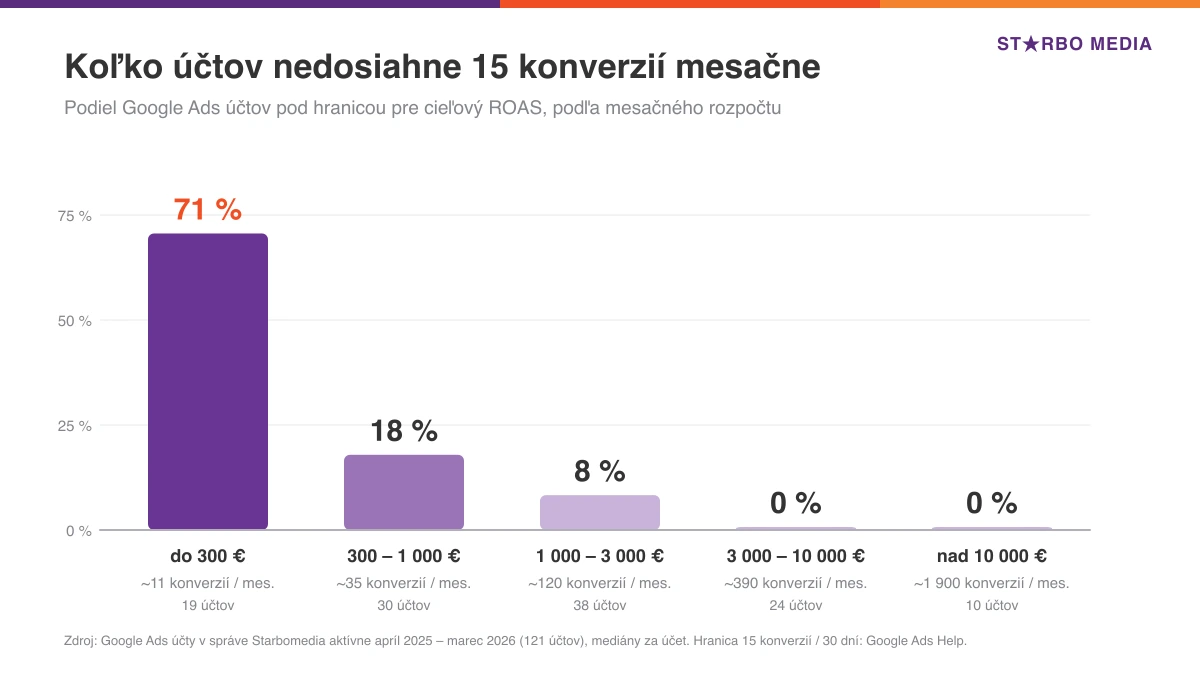
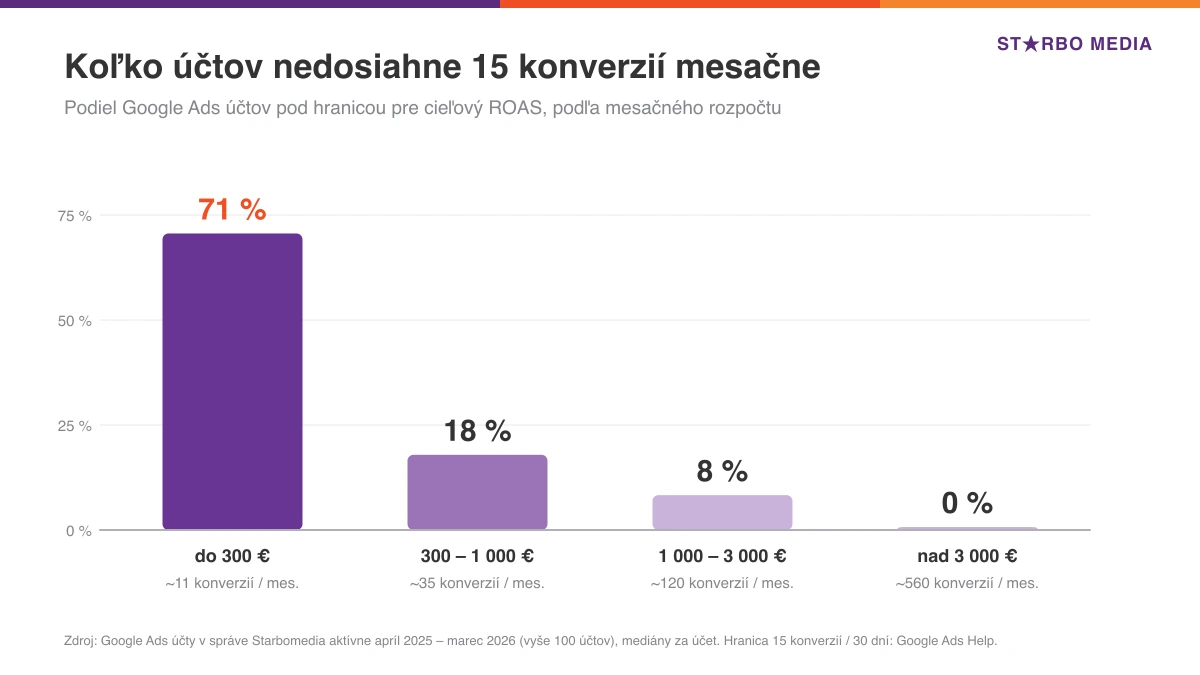
Blog: malý e-shop – bez Shoptet Kampaní, anonymizované počty účtov
- odstránený odsek o Shoptet Kampaniach
- namiesto 121 účtov „vyše 100“, bez počtov účtov v pásmach, pásma nad 3 000 € spojené bez mediánu rozpočtu (tabuľka, graf, hero, excerpt)

diff --git a/src/content/blog/html/reklama-pre-maly-eshop.html b/src/content/blog/html/reklama-pre-maly-eshop.html
@@ -3,7 +3,7 @@
   <nav aria-label="Obsah článku">
 <h2>Obsah článku</h2>
 <ol>
-<li><a href="#kolko-stoji-reklama-pre-e-shop-co-ukazuju-data-zo-121-uctov">Koľko stojí reklama pre e-shop: čo ukazujú dáta zo 121 účtov</a></li>
+<li><a href="#kolko-stoji-reklama-pre-e-shop-co-ukazuju-data-z-vyse-100-uc">Koľko stojí reklama pre e-shop: čo ukazujú dáta z vyše 100 účtov</a></li>
 <li><a href="#ako-propagovat-e-shop-s-malym-rozpoctom-poradie-kanalov">Ako propagovať e-shop s malým rozpočtom: poradie kanálov</a></li>
 <li><a href="#ako-nastavit-kampane-ked-mate-malo-konverzii">Ako nastaviť kampane, keď máte málo konverzií</a></li>
 <li><a href="#marketing-pre-e-shop-v-prvych-90-dnoch-postup-krok-za-krokom">Marketing pre e-shop v prvých 90 dňoch: postup krok za krokom</a></li>
@@ -15,25 +15,24 @@
 
   <div itemprop="articleBody">
 <p>„Koľko mám dať do reklamy?" je prvá otázka takmer každého majiteľa malého e-shopu, s ktorým sa rozprávame. Odpovede, ktoré nájdete na internete, sa pohybujú od „stačí 5 € denne" po „pod 2 700 € mesačne to nemá zmysel". Obe krajnosti majú spoločné to, že nestoja na dátach.</p>
-<p>My v Starbomedia sme sa preto pozreli na čísla. Zobrali sme 121 Google Ads účtov, ktoré spravujeme a ktoré bežali celý rok (apríl 2025 – marec 2026). Rozdelili sme ich podľa mesačného rozpočtu a porovnali, čo za svoje peniaze reálne dostávajú. Z toho vychádza aj odpoveď na druhú otázku: kde začať, keď peňazí nie je veľa.</p>
+<p>My v Starbomedia sme sa preto pozreli na čísla. Zobrali sme vyše 100 Google Ads účtov, ktoré spravujeme a ktoré bežali celý rok (apríl 2025 – marec 2026). Rozdelili sme ich podľa mesačného rozpočtu a porovnali, čo za svoje peniaze reálne dostávajú. Z toho vychádza aj odpoveď na druhú otázku: kde začať, keď peňazí nie je veľa.</p>
 <h2 id="tl-dr">TL;DR</h2>
 <ul>
 <li><strong>Zmysluplný štart reklamy pre malý e-shop je 300 – 600 € mesačne na Google Ads</strong> plus správa. Pod 300 € reklama beží, ale väčšina účtov nenazbiera dosť konverzií na automatické stratégie.</li>
-<li><strong>Malý rozpočet neplatí drahší klik.</strong> Medián ceny za klik je v našich dátach 0,22 – 0,27 € bez ohľadu na to, či účet míňa 180 € alebo 16 000 € mesačne. Rozdiel je v objeme dát.</li>
+<li><strong>Malý rozpočet neplatí drahší klik.</strong> Medián ceny za klik je v našich dátach 0,22 – 0,27 € bez ohľadu na to, či účet míňa stovky alebo tisíce eur mesačne. Rozdiel je v objeme dát.</li>
 <li><strong>71 % účtov s rozpočtom do 300 € mesačne má menej ako 15 konverzií za mesiac.</strong> To je hranica, od ktorej Google pri Search a Shopping kampaniach povolí cieľový ROAS. V pásme 300 – 1 000 € pod ňou zostáva 18 % účtov.</li>
 <li><strong>Poradie kanálov:</strong> Google Shopping / Performance Max → vyhľadávanie na značku a presné produkty → porovnávače cien → Meta Ads. TikTok, YouTube či ChatGPT Ads až keď prvé kanály zarábajú.</li>
 <li><strong>Rozpočet odvoďte od marže, nie od konkurencie.</strong> Najprv si spočítajte, koľko vás smie stáť jedna objednávka.</li>
 </ul>
-<h2 id="kolko-stoji-reklama-pre-e-shop-co-ukazuju-data-zo-121-uctov">Koľko stojí reklama pre e-shop: čo ukazujú dáta zo 121 účtov</h2>
+<h2 id="kolko-stoji-reklama-pre-e-shop-co-ukazuju-data-z-vyse-100-uc">Koľko stojí reklama pre e-shop: čo ukazujú dáta z vyše 100 účtov</h2>
 <p>Najprv metodika, lebo mení význam čísel. Ide o Google Ads účty v našej správe, ktoré mali výdavky vo všetkých štyroch štvrťrokoch od apríla 2025 do marca 2026. Väčšina sú e-shopy, sú medzi nimi slovenské aj zahraničné trhy strednej a východnej Európy. Pri každom pásme uvádzame <strong>medián</strong>, teda hodnotu typického účtu, nie priemer, ktorý by skreslili najväčší inzerenti. Konverzie počítame len z účtov so spoľahlivým meraním.</p>
 <table>
-<thead><tr><th>Mesačný rozpočet</th><th>Účtov</th><th>Typický rozpočet</th><th>Cena za klik</th><th>Preklikov mesačne</th><th>Konverzný pomer</th><th>Konverzií mesačne</th></tr></thead>
+<thead><tr><th>Mesačný rozpočet</th><th>Typický rozpočet</th><th>Cena za klik</th><th>Preklikov mesačne</th><th>Konverzný pomer</th><th>Konverzií mesačne</th></tr></thead>
 <tbody>
-<tr><td>do 300 €</td><td style="text-align:right">19</td><td style="text-align:right">178 €</td><td style="text-align:right">0,27 €</td><td style="text-align:right">~790</td><td style="text-align:right">1,4 %</td><td style="text-align:right">~11</td></tr>
-<tr><td>300 – 1 000 €</td><td style="text-align:right">30</td><td style="text-align:right">611 €</td><td style="text-align:right">0,24 €</td><td style="text-align:right">~2 450</td><td style="text-align:right">1,5 %</td><td style="text-align:right">~35</td></tr>
-<tr><td>1 000 – 3 000 €</td><td style="text-align:right">38</td><td style="text-align:right">1 585 €</td><td style="text-align:right">0,25 €</td><td style="text-align:right">~5 900</td><td style="text-align:right">1,8 %</td><td style="text-align:right">~120</td></tr>
-<tr><td>3 000 – 10 000 €</td><td style="text-align:right">24</td><td style="text-align:right">4 371 €</td><td style="text-align:right">0,22 €</td><td style="text-align:right">~20 100</td><td style="text-align:right">2,3 %</td><td style="text-align:right">~390</td></tr>
-<tr><td>nad 10 000 €</td><td style="text-align:right">10</td><td style="text-align:right">16 636 €</td><td style="text-align:right">0,27 €</td><td style="text-align:right">~63 700</td><td style="text-align:right">4,9 %</td><td style="text-align:right">~1 900</td></tr>
+<tr><td>do 300 €</td><td style="text-align:right">178 €</td><td style="text-align:right">0,27 €</td><td style="text-align:right">~790</td><td style="text-align:right">1,4 %</td><td style="text-align:right">~11</td></tr>
+<tr><td>300 – 1 000 €</td><td style="text-align:right">611 €</td><td style="text-align:right">0,24 €</td><td style="text-align:right">~2 450</td><td style="text-align:right">1,5 %</td><td style="text-align:right">~35</td></tr>
+<tr><td>1 000 – 3 000 €</td><td style="text-align:right">1 585 €</td><td style="text-align:right">0,25 €</td><td style="text-align:right">~5 900</td><td style="text-align:right">1,8 %</td><td style="text-align:right">~120</td></tr>
+<tr><td>nad 3 000 €</td><td style="text-align:right">–</td><td style="text-align:right">0,22 €</td><td style="text-align:right">~20 700</td><td style="text-align:right">2,5 %</td><td style="text-align:right">~560</td></tr>
 </tbody>
 </table>
 <p><em>Zdroj: Google Ads účty v správe Starbomedia, apríl 2025 – marec 2026, mediány za účet. Konverzia = cieľ, ktorý účet sleduje, prevažne nákup.</em></p>
@@ -46,7 +45,7 @@
 </ul>
 <p>Konverzný pomer v tabuľke s rozpočtom rastie. Neznamená to však, že vyšší rozpočet sám od seba zvýši konverzný pomer. V každom pásme sú iné e-shopy s iným sortimentom, cenami a menom na trhu. Z dát vyplýva len toľko, že s rozpočtom rastie objem.</p>
 <h3 id="maly-rozpocet-neznamena-drahsi-klik">Malý rozpočet neznamená drahší klik</h3>
-<p>Častá obava znie: „Veľké e-shopy majú väčšie rozpočty, preto mi vyženú cenu kliku." V našich dátach sa to nepotvrdzuje. Medián ceny za klik je vo všetkých pásmach medzi 0,22 a 0,27 €. Účet s rozpočtom 180 € mesačne platí za návštevu v podstate rovnako ako účet, ktorý míňa 16 000 €.</p>
+<p>Častá obava znie: „Veľké e-shopy majú väčšie rozpočty, preto mi vyženú cenu kliku." V našich dátach sa to nepotvrdzuje. Medián ceny za klik je vo všetkých pásmach medzi 0,22 a 0,27 €. Účet s rozpočtom 180 € mesačne platí za návštevu v podstate rovnako ako účty, ktoré míňajú tisíce eur.</p>
 <p>Aukcia v Google Ads totiž neporovnáva mesačné rozpočty inzerentov. Pozíciu reklamy určuje okrem iného vaša ponuka za klik, kvalita reklamy a vstupnej stránky a kontext hľadania (<a href="https://support.google.com/google-ads/answer/1722122" title="Google Ads Help – Ad Rank" target="_blank" rel="noopener noreferrer">Google Ads Help – Ad Rank</a>). Malý rozpočet preto neprehráva na cene. Prehráva na tom, koľko návštev si za tú cenu kúpi.</p>
 <h3 id="problem-maleho-rozpoctu-su-konverzie-nie-cena-kliku">Problém malého rozpočtu sú konverzie, nie cena kliku</h3>
 <p>Automatické stratégie Google Ads potrebujú dáta. Pri <strong>cieľovom ROAS</strong> (stratégia, pri ktorej Google nastavuje ponuky tak, aby z každého eura v reklame prišiel požadovaný obrat) to Google píše priamo. Kampaň vo vyhľadávaní alebo v Shoppingu potrebuje <strong>aspoň 15 konverzií za posledných 30 dní</strong> na úrovni merania konverzií (<a href="https://support.google.com/google-ads/answer/6268637" title="Google Ads Help" target="_blank" rel="noopener noreferrer">Google Ads Help</a>).</p>
@@ -91,7 +90,6 @@
 <li><strong>Meranie nákupov s hodnotou.</strong> Bez neho kampaň nevie, ktorý produkt zarába.</li>
 <li><strong>Výber produktov.</strong> Pri malom rozpočte nedávajte do reklamy celý katalóg. Začnite produktmi, ktoré majú dobrú maržu, sú skladom a predávajú sa aj bez reklamy.</li>
 </ul>
-<p>Ak máte e-shop na Shoptete, existuje aj cesta cez <strong>Shoptet Kampane</strong>. Shoptet ich na Slovensku spustil v júni 2025. Kampane bežia len v sieti Google a rozpočet si nastavíte sami priamo v administrácii (<a href="https://blog.shoptet.sk/shoptet-kampane/" title="blog Shoptet" target="_blank" rel="noopener noreferrer">blog Shoptet</a>). Pre úplný začiatok je to jednoduchá cesta. Pred spustením si overte, aké nastavenia kampaní budete mať k dispozícii a či ich neskôr môžete preniesť do vlastného Google Ads účtu.</p>
 <h3 id="2-vyhladavanie-na-znacku-a-presne-produktove-dopyty">2. Vyhľadávanie na značku a presné produktové dopyty</h3>
 <p>Najmenšie účty v našich dátach (do 300 € mesačne) majú skladbu inú: <strong>49 % vo vyhľadávaní a 48 % v Performance Max</strong>. Dáva to zmysel. Textová kampaň vo vyhľadávaní sa dá pri malom rozpočte zúžiť na pár presných dopytov, pri ktorých viete, že človek chce kúpiť. Ide o názov vašej značky, konkrétne modely a kombinácie typu „produkt + kúpiť".</p>
 <p>Kampaň na vlastnú značku je lacná poistka. Ak vás niekto hľadá podľa mena, nechcete, aby nad vami bola reklama konkurencie. Do celkového vyhodnotenia ju však nemiešajte s kampaňami na nových zákazníkov. Značková kampaň má prirodzene vysokú návratnosť a výsledky ostatných by vyzerali lepšie, než sú.</p>
@@ -209,7 +207,7 @@
 
 <!-- Meta tagy pre CMS (vložiť do <head>) -->
 <!--
-<meta name="description" content="Koľko dať do reklamy pre malý e-shop a kde začať? Dáta zo 121 Google Ads účtov podľa rozpočtu, poradie kanálov a plán na prvých 90 dní.">
+<meta name="description" content="Koľko dať do reklamy pre malý e-shop a kde začať? Dáta z vyše 100 Google Ads účtov podľa rozpočtu, poradie kanálov a plán na prvých 90 dní.">
 <title>Reklama pre e-shop 2026: koľko investovať a kde začať</title>
 <link rel="canonical" href="https://starbomedia.sk/reklama-pre-maly-eshop">
 -->
@@ -220,7 +218,7 @@
     "@context": "https://schema.org",
     "@type": "Article",
     "headline": "Reklama pre malý e-shop v roku 2026: koľko investovať a kde začať",
-    "description": "Koľko dať do reklamy pre malý e-shop a kde začať? Dáta zo 121 Google Ads účtov podľa rozpočtu, poradie kanálov a plán na prvých 90 dní.",
+    "description": "Koľko dať do reklamy pre malý e-shop a kde začať? Dáta z vyše 100 Google Ads účtov podľa rozpočtu, poradie kanálov a plán na prvých 90 dní.",
     "datePublished": "2026-10-08",
     "dateModified": "2026-10-08",
     "inLanguage": "sk",
